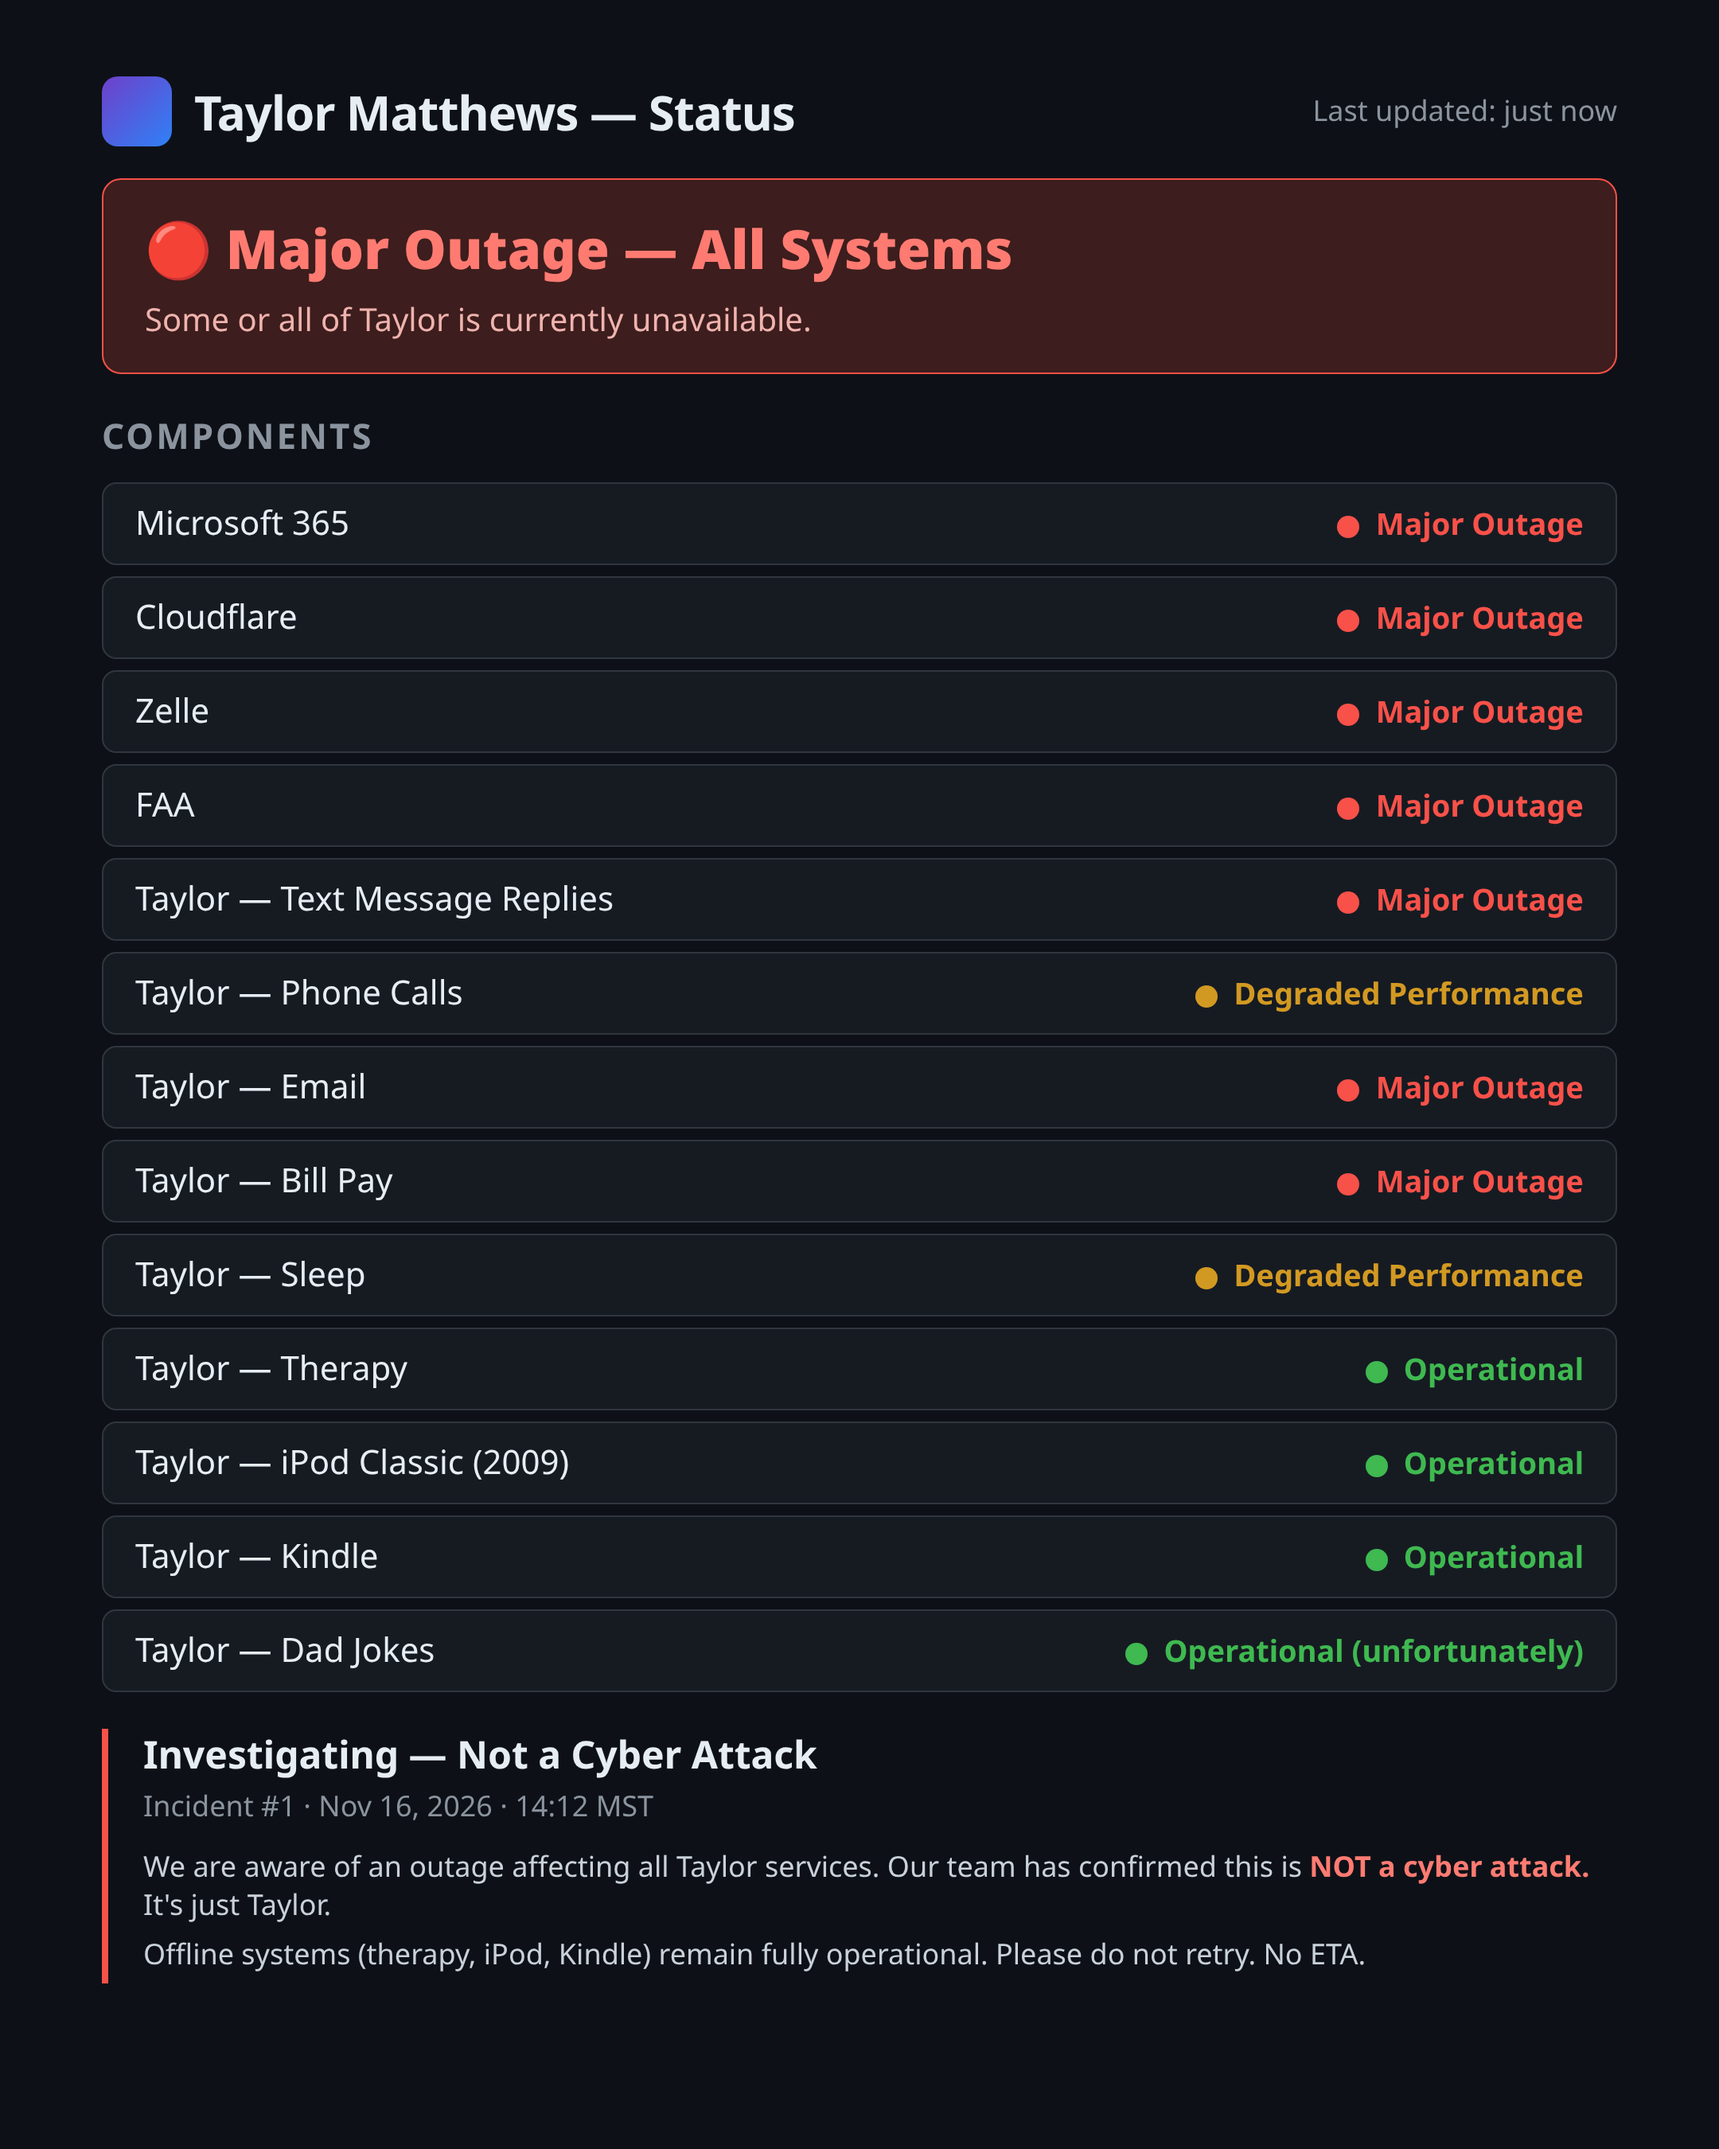
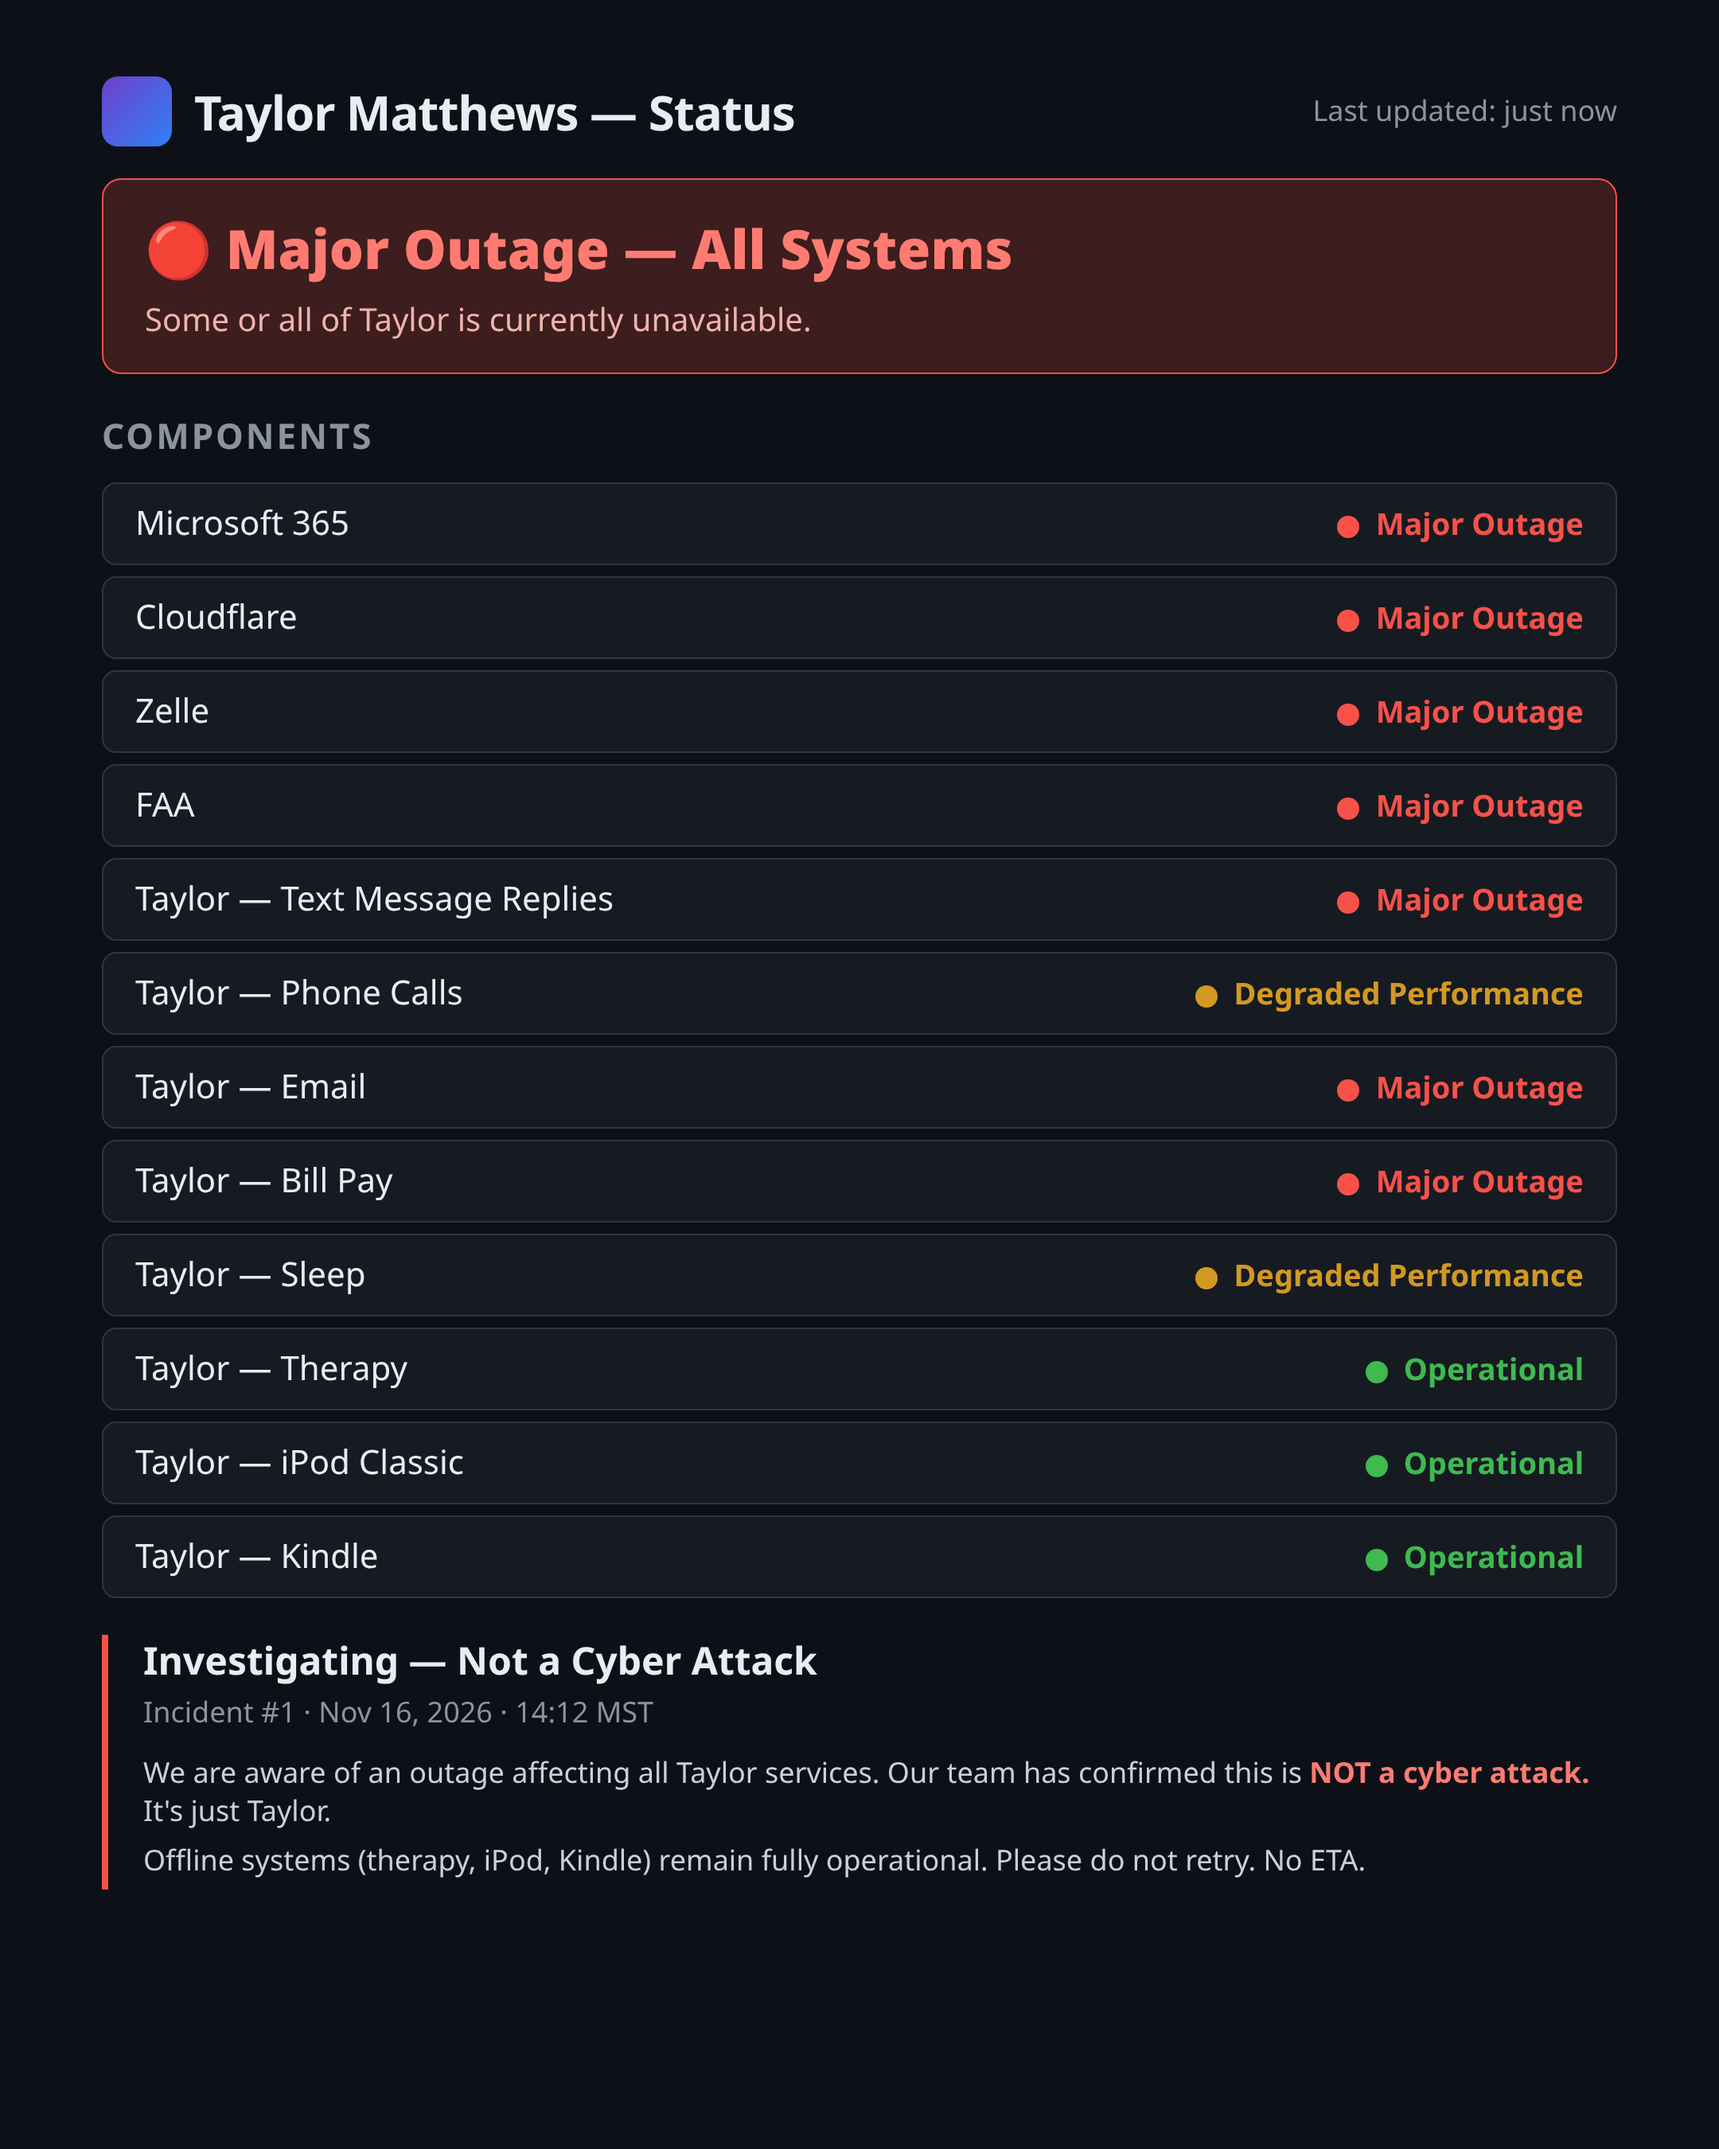
status: trim

diff --git a/status/index.html b/status/index.html
@@ -41,9 +41,8 @@ h2{font-size:22px;color:#8b949e;font-weight:600;text-transform:uppercase;letter-
 <div class="row"><span>Taylor — Bill Pay</span><span class="bad"><i class="dot" style="background:#f85149"></i>Major Outage</span></div>
 <div class="row"><span>Taylor — Sleep</span><span class="deg"><i class="dot" style="background:#d29922"></i>Degraded Performance</span></div>
 <div class="row"><span>Taylor — Therapy</span><span class="ok"><i class="dot" style="background:#3fb950"></i>Operational</span></div>
-<div class="row"><span>Taylor — iPod Classic (2009)</span><span class="ok"><i class="dot" style="background:#3fb950"></i>Operational</span></div>
+<div class="row"><span>Taylor — iPod Classic</span><span class="ok"><i class="dot" style="background:#3fb950"></i>Operational</span></div>
 <div class="row"><span>Taylor — Kindle</span><span class="ok"><i class="dot" style="background:#3fb950"></i>Operational</span></div>
-<div class="row"><span>Taylor — Dad Jokes</span><span class="ok"><i class="dot" style="background:#3fb950"></i>Operational (unfortunately)</span></div>
 <div class="inc"><h3>Investigating — Not a Cyber Attack</h3><div class="m">Incident #1 · Nov 16, 2026 · 14:12 MST</div>
 <p>We are aware of an outage affecting all Taylor services. Our team has confirmed this is <b>NOT a cyber attack.</b> It's just Taylor.</p>
 <p>Offline systems (therapy, iPod, Kindle) remain fully operational. Please do not retry. No ETA.</p></div></body></html>
